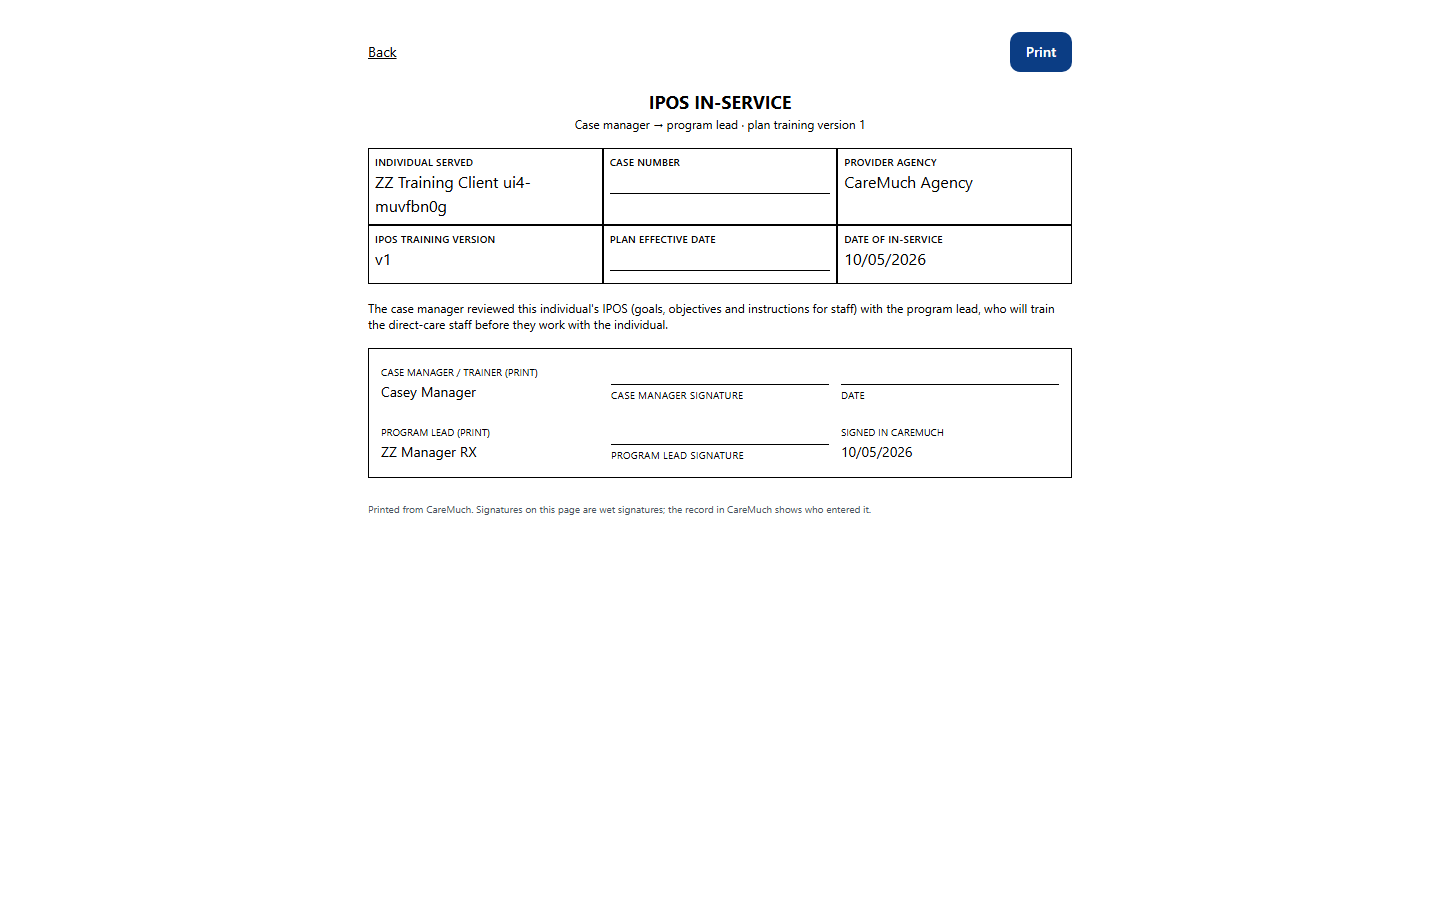
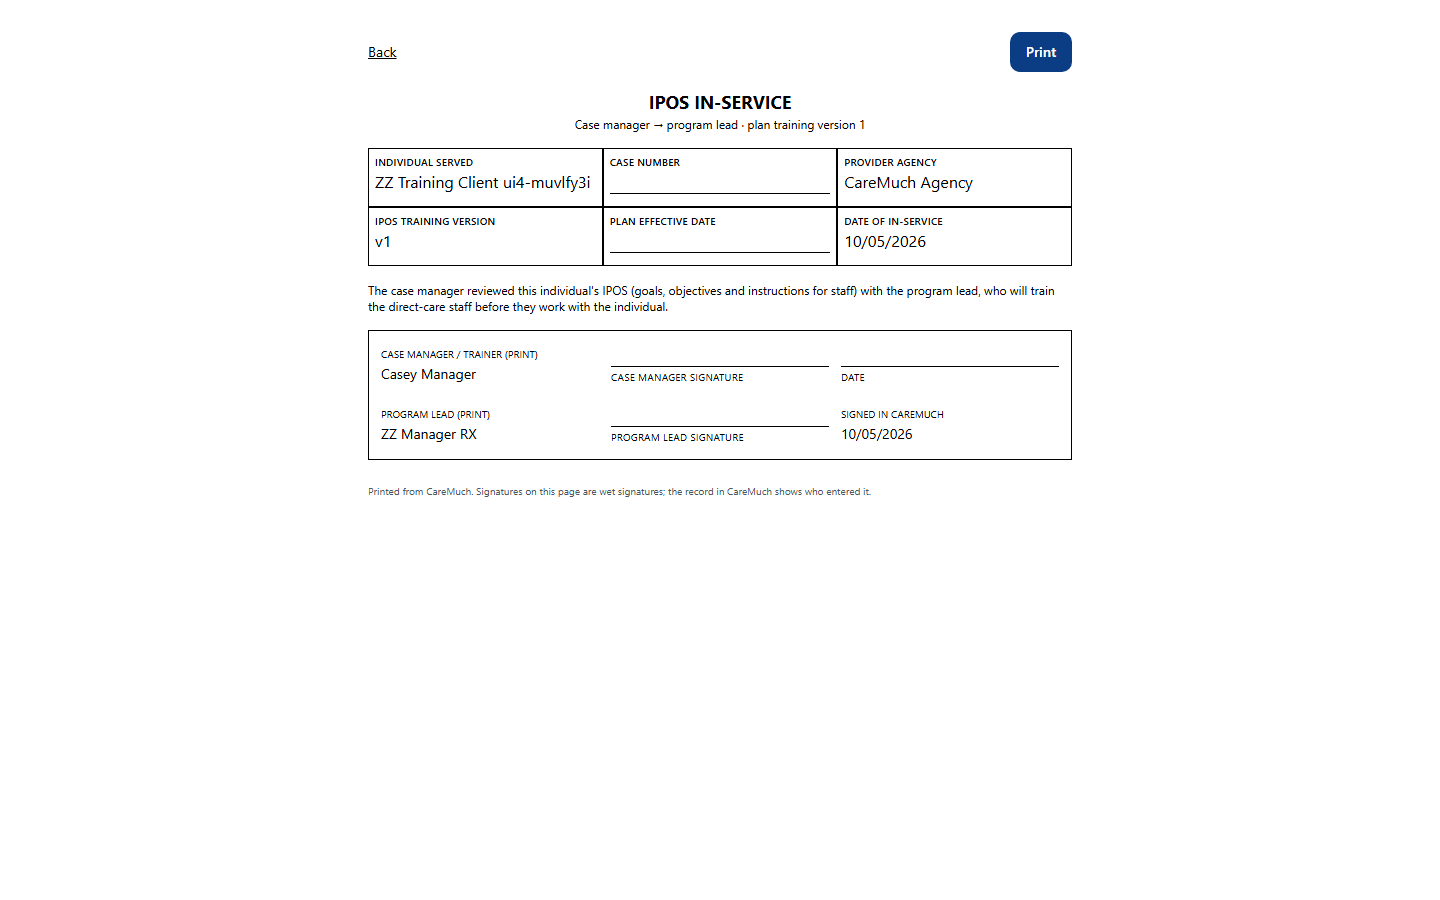
Ripple UI S6 polish: navy filter chips, full client name for HR on /training/:clientId, case-number gap recorded
- FilterChip: Ripple filter chips (care-plans list, Scheduling tab) use the primary navy;
  ui/toggle.tsx is unchanged.
- /training/:clientId header and training dialogs show the client's full name (owner: a name
  isn't clinical content; HR matches the paper forms). The /training list stays first name +
  initial (its RPC returns only that; no function change).
- clients has no case-number column, so the training print keeps a blank line (plan §8).
- round4: S6p-a1/a2 (chip colour = primary), S6p-b (full name), S6p-c INFO + screenshots.
  round4 all PASS + 1 INFO; NB1 PASS; tsc no new errors; ESLint clean on touched files;
  build ok; vitest 36/36.

diff --git a/src/components/compliance/training/TrainingDialogs.tsx b/src/components/compliance/training/TrainingDialogs.tsx
@@ -38,7 +38,7 @@ export function InserviceDialog({ open, onOpenChange, ctx, today, onSaved }: { o
     <Dialog open={open} onOpenChange={onOpenChange}>
       <DialogContent className="max-h-[90vh] grid-cols-[minmax(0,1fr)] overflow-y-auto sm:max-w-[560px]" data-testid="inservice-dialog">
         <DialogHeader><DialogTitle>In-service form · training version {ctx.plan?.training_version}</DialogTitle>
-          <DialogDescription>The case manager trained the program lead on {ctx.client_short}'s plan v{ctx.plan?.version}; the program lead signs.</DialogDescription></DialogHeader>
+          <DialogDescription>The case manager trained the program lead on {ctx.client_name}'s plan v{ctx.plan?.version}; the program lead signs.</DialogDescription></DialogHeader>
         <div className="grid grid-cols-1 gap-3 sm:grid-cols-2">
           <div className="space-y-1 sm:col-span-2"><Label htmlFor="in-cm">Case manager (trainer) *</Label><Input id="in-cm" value={cm} onChange={(e) => setCm(e.target.value)} /></div>
           <div className="space-y-1 sm:col-span-2"><Label htmlFor="in-lead">Program lead (signs) *</Label>
@@ -82,7 +82,7 @@ export function TrainingFormDialog({ open, onOpenChange, ctx, today, onSaved, on
     <Dialog open={open} onOpenChange={onOpenChange}>
       <DialogContent className="max-h-[90vh] grid-cols-[minmax(0,1fr)] overflow-y-auto sm:max-w-[760px]" data-testid="training-dialog">
         <DialogHeader><DialogTitle>Training form (ISK 33.01_01F) · training version {ctx.plan?.training_version}</DialogTitle>
-          <DialogDescription>Caregivers trained on {ctx.client_short}'s plan by the case manager, clinician or program lead.</DialogDescription></DialogHeader>
+          <DialogDescription>Caregivers trained on {ctx.client_name}'s plan by the case manager, clinician or program lead.</DialogDescription></DialogHeader>
         {!ctx.inservice_current ? (
           <Alert variant="destructive" data-testid="training-refused">
             <AlertTriangle className="h-4 w-4" />

diff --git a/src/components/compliance/careplan/SchedulingTab.tsx b/src/components/compliance/careplan/SchedulingTab.tsx
@@ -8,7 +8,8 @@ import { Badge } from "@/components/ui/badge";
 import { Button } from "@/components/ui/button";
 import { Card, CardContent, CardHeader, CardTitle } from "@/components/ui/card";
 import { Input } from "@/components/ui/input";
-import { ToggleGroup, ToggleGroupItem } from "@/components/ui/toggle-group";
+import { ToggleGroup } from "@/components/ui/toggle-group";
+import { FilterChip } from "@/components/compliance/FilterChip";
 import { Table, TableBody, TableCell, TableHead, TableHeader, TableRow } from "@/components/ui/table";
 import { UnitsBar } from "@/components/compliance/UnitsBar";
 import { TrainingPanel } from "@/components/compliance/training/TrainingPanel";
@@ -102,9 +103,9 @@ export function SchedulingTab({ clientId, officeId }: { clientId: string; office
           <CardTitle className="text-base">Caregivers who can deliver</CardTitle>
           <div className="flex flex-wrap items-center gap-2">
             <ToggleGroup type="single" value={filter} onValueChange={(v) => v && setFilter(v as DeliverFilter)} className="flex-wrap justify-start" aria-label="Caregiver filter">
-              <ToggleGroupItem value="trained" data-filter="trained">Trained / effective</ToggleGroupItem>
-              <ToggleGroupItem value="retrain" data-filter="retrain">Needs retraining</ToggleGroupItem>
-              <ToggleGroupItem value="all" data-filter="all">All in office</ToggleGroupItem>
+              <FilterChip value="trained" data-filter="trained">Trained / effective</FilterChip>
+              <FilterChip value="retrain" data-filter="retrain">Needs retraining</FilterChip>
+              <FilterChip value="all" data-filter="all">All in office</FilterChip>
             </ToggleGroup>
             <Input className="w-full sm:w-56" placeholder="Search caregivers" value={search} onChange={(e) => setSearch(e.target.value)} aria-label="Search caregivers" />
           </div>

diff --git a/src/pages/ripple/CarePlans.tsx b/src/pages/ripple/CarePlans.tsx
@@ -8,7 +8,8 @@ import { ModuleShell } from "@/components/compliance/ModuleShell";
 import { OfficePicker } from "@/components/compliance/OfficePicker";
 import { AuthorizationRiskPanel } from "@/components/compliance/careplan/AuthorizationRiskPanel";
 import { Badge } from "@/components/ui/badge";
-import { ToggleGroup, ToggleGroupItem } from "@/components/ui/toggle-group";
+import { ToggleGroup } from "@/components/ui/toggle-group";
+import { FilterChip } from "@/components/compliance/FilterChip";
 import { Table, TableBody, TableCell, TableHead, TableHeader, TableRow } from "@/components/ui/table";
 import { useComplianceOffices } from "@/hooks/useComplianceOffices";
 import { daysUntil, parseDateOnly } from "@/lib/dateOnly";
@@ -65,10 +66,10 @@ export default function CarePlans() {
         <OfficePicker offices={moduleOffices} value={officeId} onChange={setPicked} />
         <AuthorizationRiskPanel officeId={officeId} />
         <ToggleGroup type="single" value={filter} onValueChange={(v) => v && setFilter(v as Filter)} className="flex-wrap justify-start" aria-label="Filter clients">
-          <ToggleGroupItem value="all">All</ToggleGroupItem>
-          <ToggleGroupItem value="pending">Onboarding pending</ToggleGroupItem>
-          <ToggleGroupItem value="onboarded">Onboarded</ToggleGroupItem>
-          <ToggleGroupItem value="review">Review due</ToggleGroupItem>
+          <FilterChip value="all">All</FilterChip>
+          <FilterChip value="pending">Onboarding pending</FilterChip>
+          <FilterChip value="onboarded">Onboarded</FilterChip>
+          <FilterChip value="review">Review due</FilterChip>
         </ToggleGroup>
         <div className="overflow-x-auto rounded-md border" data-testid="care-plan-list">
           <Table>

diff --git a/src/pages/ripple/Training.tsx b/src/pages/ripple/Training.tsx
@@ -50,7 +50,10 @@ export function TrainingList() {
   );
 }
 
-/** /training/:clientId (S6): the training workflow for one client, without clinical content. */
+/**
+ * /training/:clientId (S6): the training workflow for one client, without clinical content. The header
+ * shows the full name (owner, Oct 5: HR matches the paper forms; a name isn't clinical content).
+ */
 export function TrainingClient() {
   const { clientId = "" } = useParams();
   const ctx = useTrainingContext(clientId);
@@ -64,7 +67,7 @@ export function TrainingClient() {
         ) : (
           <>
             <Card data-testid="training-header"><CardContent className="flex flex-wrap items-center justify-between gap-2 py-4">
-              <div><h2 className="text-xl font-semibold">{ctx.data.client_short}</h2><p className="text-sm text-muted-foreground">{ctx.data.office_name}</p></div>
+              <div><h2 className="text-xl font-semibold">{ctx.data.client_name}</h2><p className="text-sm text-muted-foreground">{ctx.data.office_name}</p></div>
               {ctx.data.plan && <Badge variant="outline">Plan v{ctx.data.plan.version} · training v{ctx.data.plan.training_version}</Badge>}
             </CardContent></Card>
             <TrainingPanel ctx={ctx.data} onChanged={refresh} />

diff --git a/src/components/compliance/FilterChip.tsx b/src/components/compliance/FilterChip.tsx
@@ -1,0 +1,17 @@
+import * as React from "react";
+import { ToggleGroupItem } from "@/components/ui/toggle-group";
+import { cn } from "@/lib/utils";
+
+// Filter chip for the Ripple screens. The shared toggle shows its "on" state in the accent (teal);
+// these chips use the app's primary navy like the rest of the UI. ui/toggle.tsx stays unchanged.
+export const FilterChip = React.forwardRef<
+  React.ElementRef<typeof ToggleGroupItem>,
+  React.ComponentPropsWithoutRef<typeof ToggleGroupItem>
+>(({ className, ...props }, ref) => (
+  <ToggleGroupItem
+    ref={ref}
+    className={cn("data-[state=on]:bg-primary data-[state=on]:text-primary-foreground", className)}
+    {...props}
+  />
+));
+FilterChip.displayName = "FilterChip";

diff --git a/docs/ripple-ui-implementation-plan.md b/docs/ripple-ui-implementation-plan.md
@@ -326,6 +326,11 @@ office) and **Q12** (bulk-approve clean rows; built as a second button), both op
     needs or notes. Print: `/training/:clientId/print/:kind/:formId`, no app chrome.
   - Scheduler: NOT granted the client Scheduling tab (the client page stays manager / agency_admin); schedulers keep the
     full Schedule screen, which `Open full Schedule ->` deep-links with `?client=`.
+  - **S6 polish (owner, Oct 5):** filter chips use the primary navy (`FilterChip`; the shared toggle keeps its accent).
+    `/training/:clientId` and its dialogs show the client's full name to hr_staff (a name isn't clinical content; HR matches
+    the paper forms); the `/training` list still shows first name + initial (`list_client_training_status` returns only that).
+    **Case number:** `clients` has no case-number column (nor any table on DEV), so the training print keeps a blank line; the
+    prototype's progress-note billing box ("Case number — from client record") hits the same gap in S8/S9.
   - **In-service print: provisional layout, pending Ripple's form sample** (owner will provide a redacted sample). It is
     inferred from the architecture text; the 33.01_01F training form follows arch §1.3 field by field.
 - **S6b:** group sessions wait for Ripple's staff:client ratio answer (default 1:3, office default
